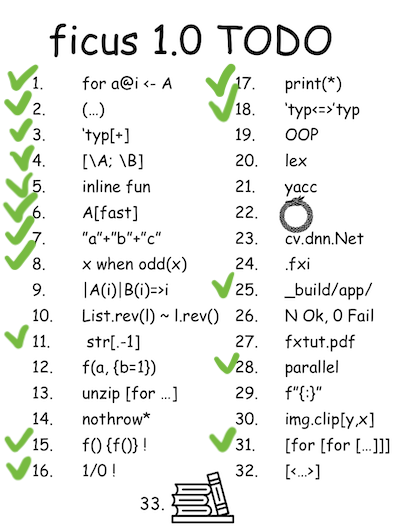
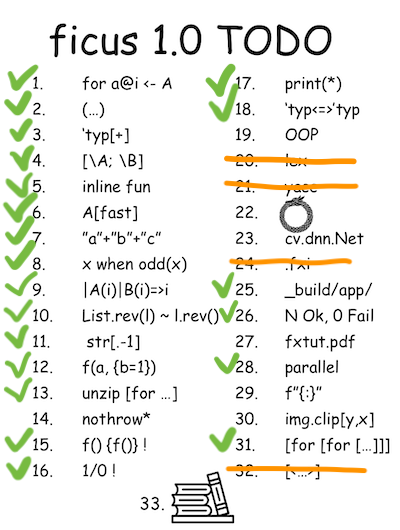
1. implemented @unzip for 2. fixed subtle problems with global temporary values (temporary values defined at the module scope (e.g. during k-normalization or during inline expansion). 3. updated the status a bit

diff --git a/README.md b/README.md
@@ -30,10 +30,10 @@ run `ficus --help` to get more complete up-to-date information about command lin
 
 here is brief summary:
 ```
-ficus [-app|-run|...] [-O0|-O1|-O3] [-I<extra_module_path>] <scriptname.fx> [-- <script arg1> <script arg2> ...]
+ficus [-app|-run|...] [-O0|-O1|-O3] [-I<extra_module_path>]* <scriptname.fx> [-- <script arg1> <script arg2> ...]
 ```
 
-* `-app` (the flag is set by default) generate C code for the specified script as well as for the imported modules (one .c file per one .fx file), then run the compiler for each of the generated .c files and then link the produced object files into the finaal app. Use `FICUS_CFLAGS` and `FICUS_LINK_LIBRARIES` environment variables to pass extra options to C compiler, e.g. `-ffast-math -mavx2` `-lmimalloc` etc. The compiled app, as well as the intermediate `.c` and `.o` files, is stored in `__build__/<scriptname>/<scriptname>`. Override the output name with `-o` option.
+* `-app` (the flag is set by default) generates C code for the specified script as well as for the imported modules (one .c file per one .fx file), then run the compiler for each of the generated .c files and then link the produced object files into the finaal app. Use `FICUS_CFLAGS` and `FICUS_LINK_LIBRARIES` environment variables to pass extra options to C compiler, e.g. `-ffast-math -mavx2` `-lmimalloc` etc. The compiled app, as well as the intermediate `.c` and `.o` files, is stored in `__build__/<scriptname>/<scriptname>`. Override the output name with `-o` option.
 * `-run` builds the app (see flags `-app`) and then runs it.
 
 ## Ficus 1.0
